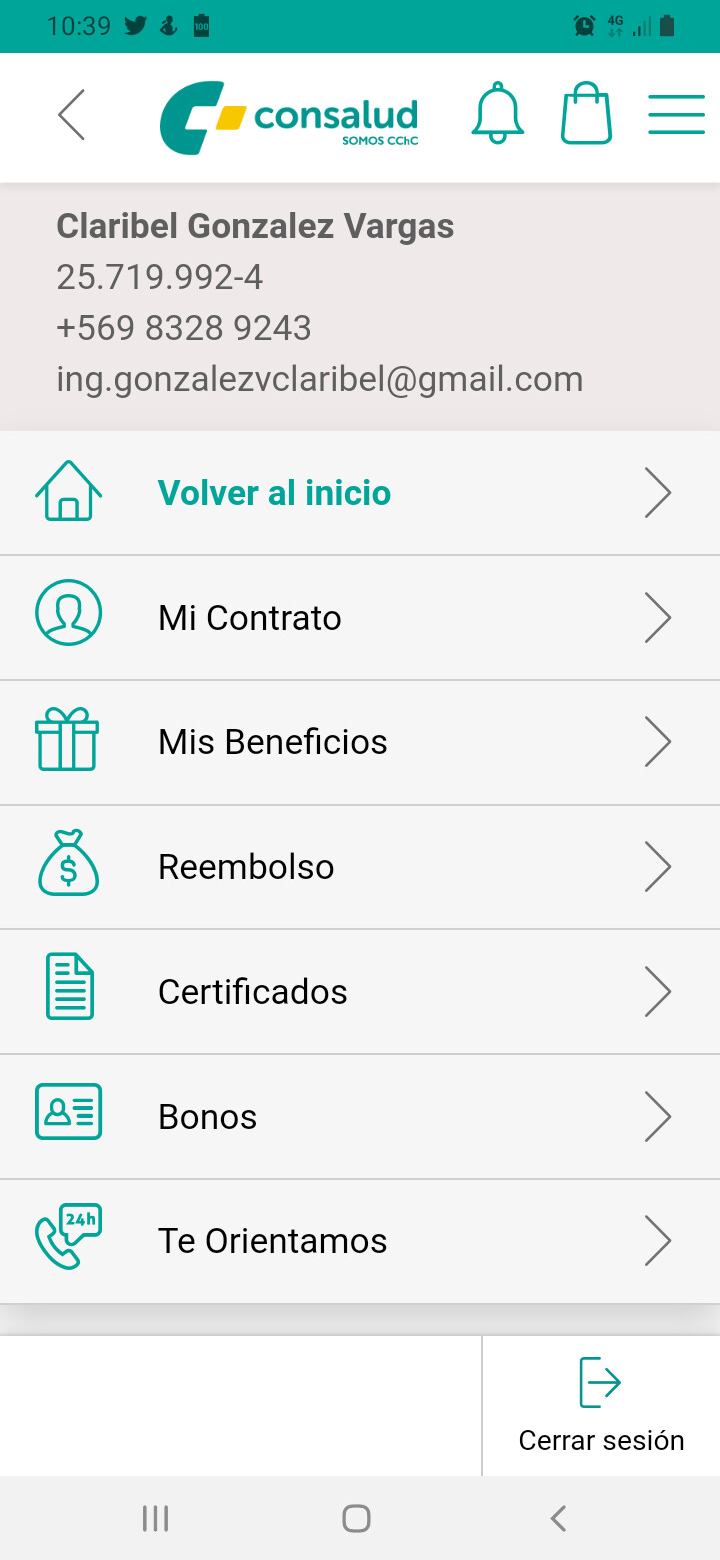
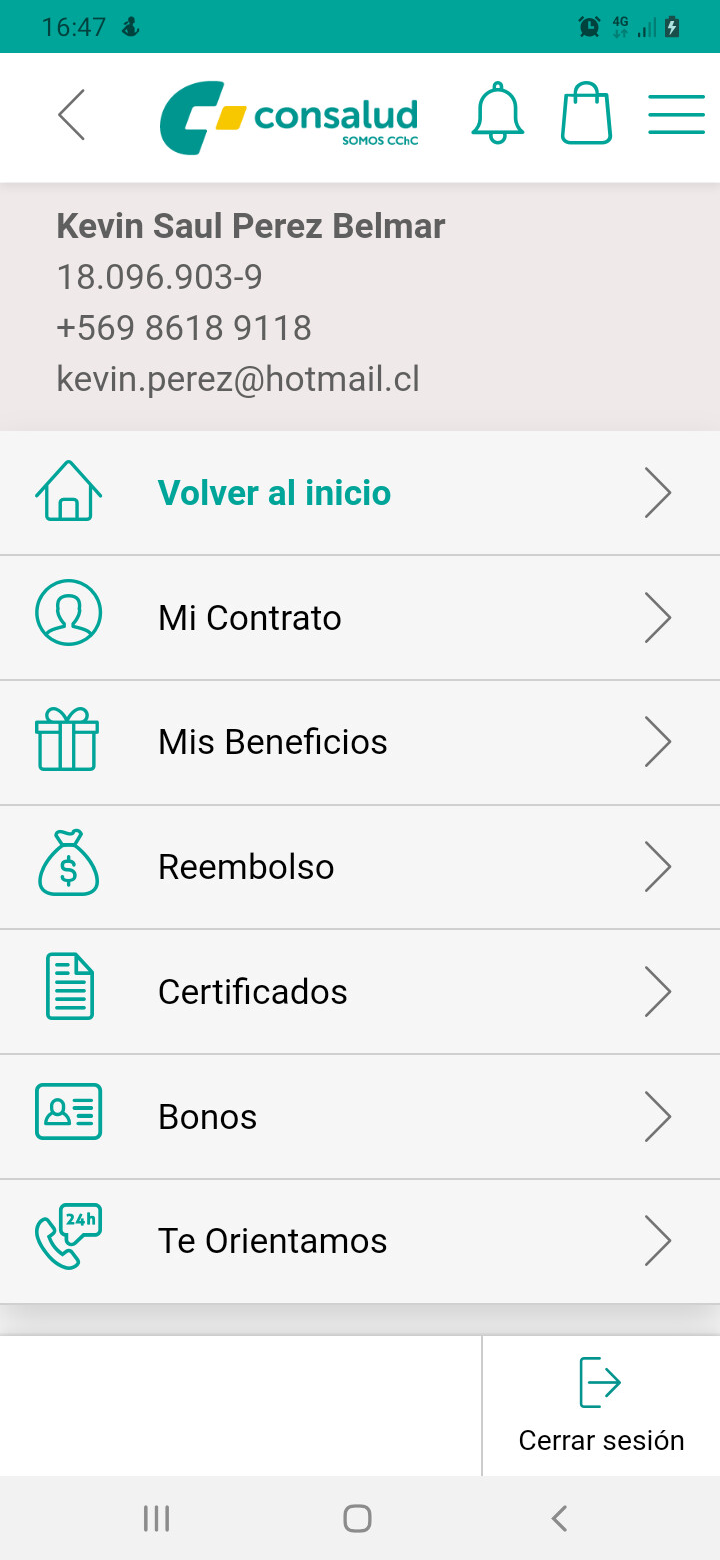
Menú
Declaracion de Clases Menu APPC

diff --git a/ExtentReports/Prueba_Base.html b/ExtentReports/Prueba_Base.html
@@ -53,7 +53,7 @@
 					<i class='mdi-hardware-desktop-windows'></i>
 				</li>
 				<li>
-					<span class='suite-started-time'>2019-08-27 15:45:45</span>
+					<span class='suite-started-time'>2019-08-28 16:47:22</span>
 				</li>
 				<li>
 					<span>v2.41.1</span>
@@ -83,25 +83,25 @@
 					<div class='col l2 m4 s12'>
 						<div class='card suite-total-time-current'> 
 							<span class='panel-name'>Tiempo total insumido (Corrida actual)</span> 
-							<span class='suite-total-time-current-value panel-lead'>0h 8m 54s+612ms</span> 
+							<span class='suite-total-time-current-value panel-lead'>0h 2m 39s+708ms</span> 
 						</div> 
 					</div>
 					<div class='col l2 m4 s12'>
 						<div class='card suite-total-time-overall'> 
 							<span class='panel-name'>Tiempo total insumido (En general)</span> 
-							<span class='suite-total-time-overall-value panel-lead'>0h 8m 54s+612ms</span> 
+							<span class='suite-total-time-overall-value panel-lead'>0h 2m 39s+708ms</span> 
 						</div> 
 					</div>
 					<div class='col l2 m4 s6 suite-start-time'>
 						<div class='card accent green-accent'> 
 							<span class='panel-name'>Comienzo</span> 
-							<span class='panel-lead suite-started-time'>2019-08-27 15:36:50</span> 
+							<span class='panel-lead suite-started-time'>2019-08-28 16:44:42</span> 
 						</div> 
 					</div>
 					<div class='col l2 m4 s6 suite-end-time'>
 						<div class='card accent pink-accent'> 
 							<span class='panel-name'>Fin</span> 
-							<span class='panel-lead suite-ended-time'>2019-08-27 15:45:45</span> 
+							<span class='panel-lead suite-ended-time'>2019-08-28 16:47:22</span> 
 						</div> 
 					</div>
 				</div>
@@ -241,7 +241,7 @@
 						<div class='card-panel no-padding-h no-padding-v no-margin-v'>
 							<div class='wrapper'>
 								<ul id='test-collection' class='test-collection'>
-										<li class='collection-item test displayed active pass ' extentid='dd13a92b-0992-49bd-bda6-43eb4fca441f'>
+										<li class='collection-item test displayed active pass ' extentid='7bca252b-dab6-4865-aea9-ca692ce178c6'>
 											<div class='test-head'>
 												<span class='test-name'>Reporte Ingreso APP Consalud </span>
 												<span class='test-status label right outline capitalize pass'>pass</span>
@@ -249,9 +249,9 @@
 											</div>
 											<div class='test-body'>
 												<div class='test-info'>
-													<span title='Comienzo del test' alt='Comienzo del test' class='test-started-time label green lighten-1 text-white'>2019-08-27 15:39:14</span>
-													<span title='Fin de test' alt='Fin de test' class='test-ended-time label red lighten-1 text-white'>2019-08-27 15:40:26</span>
-													<span title='Tiempo de ejecución' alt='Tiempo de ejecución' class='test-time-taken label blue-grey lighten-3 text-white'>0h 1m 12s+408ms</span>
+													<span title='Comienzo del test' alt='Comienzo del test' class='test-started-time label green lighten-1 text-white'>2019-08-28 16:44:48</span>
+													<span title='Fin de test' alt='Fin de test' class='test-ended-time label red lighten-1 text-white'>2019-08-28 16:46:03</span>
+													<span title='Tiempo de ejecución' alt='Tiempo de ejecución' class='test-time-taken label blue-grey lighten-3 text-white'>0h 1m 14s+373ms</span>
 												</div>
 												<div class='test-desc'>Login APP CONSALUD</div>
 												<div class='test-attributes'>
@@ -268,57 +268,57 @@
 														<tbody>
 																<tr>
 																	<td class='status info' title='info' alt='info'><i class='mdi-action-info-outline'></i></td>
-																	<td class='timestamp'>15:39:14</td>
+																	<td class='timestamp'>16:44:48</td>
 																	<td class='step-details'>Inicio Login en Consalud.-</td>
 																</tr>
 																<tr>
 																	<td class='status info' title='info' alt='info'><i class='mdi-action-info-outline'></i></td>
-																	<td class='timestamp'>15:39:26</td>
+																	<td class='timestamp'>16:45:01</td>
 																	<td class='step-details'>AUTOTRELLO: Ingreso APP<a href='.\Evidence\Prueba_Base\loginConsalud\Paso 1_APPC-01.png' data-featherlight='image'><img class='report-img' src='.\Evidence\Prueba_Base\loginConsalud\Paso 1_APPC-01.png' /></a></td>
 																</tr>
 																<tr>
 																	<td class='status info' title='info' alt='info'><i class='mdi-action-info-outline'></i></td>
-																	<td class='timestamp'>15:39:32</td>
+																	<td class='timestamp'>16:45:08</td>
 																	<td class='step-details'>AUTOTRELLO: Ingreso Usuario<a href='.\Evidence\Prueba_Base\loginConsalud\Paso 2_APPC-02.png' data-featherlight='image'><img class='report-img' src='.\Evidence\Prueba_Base\loginConsalud\Paso 2_APPC-02.png' /></a></td>
 																</tr>
 																<tr>
 																	<td class='status info' title='info' alt='info'><i class='mdi-action-info-outline'></i></td>
-																	<td class='timestamp'>15:39:37</td>
+																	<td class='timestamp'>16:45:14</td>
 																	<td class='step-details'>AUTOTRELLO: Ingresar Password<a href='.\Evidence\Prueba_Base\loginConsalud\Paso 3_APPC-03.png' data-featherlight='image'><img class='report-img' src='.\Evidence\Prueba_Base\loginConsalud\Paso 3_APPC-03.png' /></a></td>
 																</tr>
 																<tr>
 																	<td class='status info' title='info' alt='info'><i class='mdi-action-info-outline'></i></td>
-																	<td class='timestamp'>15:39:53</td>
+																	<td class='timestamp'>16:45:29</td>
 																	<td class='step-details'>AUTOTRELLO: Ingreso Correcto a APP Consalud<a href='.\Evidence\Prueba_Base\loginConsalud\Paso 4_APPC-04.png' data-featherlight='image'><img class='report-img' src='.\Evidence\Prueba_Base\loginConsalud\Paso 4_APPC-04.png' /></a></td>
 																</tr>
 																<tr>
 																	<td class='status info' title='info' alt='info'><i class='mdi-action-info-outline'></i></td>
-																	<td class='timestamp'>15:39:59</td>
+																	<td class='timestamp'>16:45:35</td>
 																	<td class='step-details'>AUTOTRELLO: Ingreso Pantalla Bienvenida_1<a href='.\Evidence\Prueba_Base\loginConsalud\Paso 5_APPC-05.png' data-featherlight='image'><img class='report-img' src='.\Evidence\Prueba_Base\loginConsalud\Paso 5_APPC-05.png' /></a></td>
 																</tr>
 																<tr>
 																	<td class='status info' title='info' alt='info'><i class='mdi-action-info-outline'></i></td>
-																	<td class='timestamp'>15:40:04</td>
+																	<td class='timestamp'>16:45:41</td>
 																	<td class='step-details'>AUTOTRELLO: Ingreso Pantalla Bienvenida_2<a href='.\Evidence\Prueba_Base\loginConsalud\Paso 6_APPC-06.png' data-featherlight='image'><img class='report-img' src='.\Evidence\Prueba_Base\loginConsalud\Paso 6_APPC-06.png' /></a></td>
 																</tr>
 																<tr>
 																	<td class='status info' title='info' alt='info'><i class='mdi-action-info-outline'></i></td>
-																	<td class='timestamp'>15:40:10</td>
+																	<td class='timestamp'>16:45:46</td>
 																	<td class='step-details'>AUTOTRELLO: Ingreso Pantalla Bienvenida_3<a href='.\Evidence\Prueba_Base\loginConsalud\Paso 7_APPC-07.png' data-featherlight='image'><img class='report-img' src='.\Evidence\Prueba_Base\loginConsalud\Paso 7_APPC-07.png' /></a></td>
 																</tr>
 																<tr>
 																	<td class='status info' title='info' alt='info'><i class='mdi-action-info-outline'></i></td>
-																	<td class='timestamp'>15:40:16</td>
+																	<td class='timestamp'>16:45:52</td>
 																	<td class='step-details'>AUTOTRELLO: Ingreso Pantalla Bienvenida_4<a href='.\Evidence\Prueba_Base\loginConsalud\Paso 8_APPC-08.png' data-featherlight='image'><img class='report-img' src='.\Evidence\Prueba_Base\loginConsalud\Paso 8_APPC-08.png' /></a></td>
 																</tr>
 																<tr>
 																	<td class='status info' title='info' alt='info'><i class='mdi-action-info-outline'></i></td>
-																	<td class='timestamp'>15:40:21</td>
+																	<td class='timestamp'>16:45:58</td>
 																	<td class='step-details'>AUTOTRELLO: Ingreso Pantalla Final<a href='.\Evidence\Prueba_Base\loginConsalud\Paso 9_APPC-09.png' data-featherlight='image'><img class='report-img' src='.\Evidence\Prueba_Base\loginConsalud\Paso 9_APPC-09.png' /></a></td>
 																</tr>
 																<tr>
 																	<td class='status pass' title='pass' alt='pass'><i class='mdi-action-check-circle'></i></td>
-																	<td class='timestamp'>15:40:26</td>
+																	<td class='timestamp'>16:46:03</td>
 																	<td class='step-details'>Test passed.-</td>
 																</tr>
 														</tbody>
@@ -328,19 +328,19 @@
 												</div>
 											</div>
 										</li>
-										<li class='collection-item test displayed active pass ' extentid='38545924-00db-435b-b9c5-4014e946d236'>
+										<li class='collection-item test displayed active pass ' extentid='1f788973-a0c8-4c9f-89f7-8914de117cfd'>
 											<div class='test-head'>
-												<span class='test-name'>Reporte Ingreso Menu Reembolso </span>
+												<span class='test-name'>Reporte Ingreso Menu Lateral Mi Contrato </span>
 												<span class='test-status label right outline capitalize pass'>pass</span>
 												<span class='category-assigned hide '></span>
 											</div>
 											<div class='test-body'>
 												<div class='test-info'>
-													<span title='Comienzo del test' alt='Comienzo del test' class='test-started-time label green lighten-1 text-white'>2019-08-27 15:41:29</span>
-													<span title='Fin de test' alt='Fin de test' class='test-ended-time label red lighten-1 text-white'>2019-08-27 15:41:44</span>
-													<span title='Tiempo de ejecución' alt='Tiempo de ejecución' class='test-time-taken label blue-grey lighten-3 text-white'>0h 0m 15s+472ms</span>
+													<span title='Comienzo del test' alt='Comienzo del test' class='test-started-time label green lighten-1 text-white'>2019-08-28 16:47:05</span>
+													<span title='Fin de test' alt='Fin de test' class='test-ended-time label red lighten-1 text-white'>2019-08-28 16:47:22</span>
+													<span title='Tiempo de ejecución' alt='Tiempo de ejecución' class='test-time-taken label blue-grey lighten-3 text-white'>0h 0m 16s+332ms</span>
 												</div>
-												<div class='test-desc'>Reembolso</div>
+												<div class='test-desc'>Mi Contrato</div>
 												<div class='test-attributes'>
 												</div>
 												<div class='test-steps'>
@@ -355,178 +355,22 @@
 														<tbody>
 																<tr>
 																	<td class='status info' title='info' alt='info'><i class='mdi-action-info-outline'></i></td>
-																	<td class='timestamp'>15:41:29</td>
-																	<td class='step-details'>Ingreso Home-Menu Lateral Reembolso.-</td>
+																	<td class='timestamp'>16:47:05</td>
+																	<td class='step-details'>Ingreso Menu Lateral Mi Contrato.-</td>
 																</tr>
 																<tr>
 																	<td class='status info' title='info' alt='info'><i class='mdi-action-info-outline'></i></td>
-																	<td class='timestamp'>15:41:34</td>
-																	<td class='step-details'>AUTOCONSALUD: Click para Ingresar a Menu Lateral<a href='.\Evidence\Prueba_Base\menuReembolso\Reem 01_APPC-01.png' data-featherlight='image'><img class='report-img' src='.\Evidence\Prueba_Base\menuReembolso\Reem 01_APPC-01.png' /></a></td>
+																	<td class='timestamp'>16:47:11</td>
+																	<td class='step-details'>AUTOCONSALUD: Click para Ingresar a Menu Lateral<a href='.\Evidence\Prueba_Base\menuMiContrato\Contra 01_APPC-01.png' data-featherlight='image'><img class='report-img' src='.\Evidence\Prueba_Base\menuMiContrato\Contra 01_APPC-01.png' /></a></td>
 																</tr>
 																<tr>
 																	<td class='status info' title='info' alt='info'><i class='mdi-action-info-outline'></i></td>
-																	<td class='timestamp'>15:41:42</td>
-																	<td class='step-details'>AUTOCONSALUD: Click para Ingresar a Menu Reembolso<a href='.\Evidence\Prueba_Base\menuReembolso\Reem 02_APPC-02.png' data-featherlight='image'><img class='report-img' src='.\Evidence\Prueba_Base\menuReembolso\Reem 02_APPC-02.png' /></a></td>
+																	<td class='timestamp'>16:47:19</td>
+																	<td class='step-details'>AUTOCONSALUD: Click para Ingresar a Menu Mi Contrato<a href='.\Evidence\Prueba_Base\menuMiContrato\Contra 02_APPC-02.png' data-featherlight='image'><img class='report-img' src='.\Evidence\Prueba_Base\menuMiContrato\Contra 02_APPC-02.png' /></a></td>
 																</tr>
 																<tr>
 																	<td class='status pass' title='pass' alt='pass'><i class='mdi-action-check-circle'></i></td>
-																	<td class='timestamp'>15:41:44</td>
-																	<td class='step-details'>Test passed.-</td>
-																</tr>
-														</tbody>
-													</table>
-													<ul class='collapsible node-list' data-collapsible='accordion'>
-													</ul>
-												</div>
-											</div>
-										</li>
-										<li class='collection-item test displayed active pass ' extentid='81695fa6-df4f-4bb3-978f-0d5b0f754d47'>
-											<div class='test-head'>
-												<span class='test-name'>Reporte Ingreso Menu Certificados </span>
-												<span class='test-status label right outline capitalize pass'>pass</span>
-												<span class='category-assigned hide '></span>
-											</div>
-											<div class='test-body'>
-												<div class='test-info'>
-													<span title='Comienzo del test' alt='Comienzo del test' class='test-started-time label green lighten-1 text-white'>2019-08-27 15:42:49</span>
-													<span title='Fin de test' alt='Fin de test' class='test-ended-time label red lighten-1 text-white'>2019-08-27 15:43:04</span>
-													<span title='Tiempo de ejecución' alt='Tiempo de ejecución' class='test-time-taken label blue-grey lighten-3 text-white'>0h 0m 15s+516ms</span>
-												</div>
-												<div class='test-desc'>Certificados</div>
-												<div class='test-attributes'>
-												</div>
-												<div class='test-steps'>
-													<table class='bordered table-results'>
-														<thead>
-															<tr>
-																<th>Resultado</th>
-																<th>Hora</th>
-																<th>Detalle</th>
-															</tr>
-														</thead>
-														<tbody>
-																<tr>
-																	<td class='status info' title='info' alt='info'><i class='mdi-action-info-outline'></i></td>
-																	<td class='timestamp'>15:42:49</td>
-																	<td class='step-details'>Ingreso Home-Menu Lateral Certificados.-</td>
-																</tr>
-																<tr>
-																	<td class='status info' title='info' alt='info'><i class='mdi-action-info-outline'></i></td>
-																	<td class='timestamp'>15:42:54</td>
-																	<td class='step-details'>AUTOCONSALUD: Click para Ingresar a Menu Lateral<a href='.\Evidence\Prueba_Base\menuCertificados\Certi 01_APPC-01.png' data-featherlight='image'><img class='report-img' src='.\Evidence\Prueba_Base\menuCertificados\Certi 01_APPC-01.png' /></a></td>
-																</tr>
-																<tr>
-																	<td class='status info' title='info' alt='info'><i class='mdi-action-info-outline'></i></td>
-																	<td class='timestamp'>15:43:02</td>
-																	<td class='step-details'>AUTOCONSALUD: Click para Ingresar a Menu Certificados<a href='.\Evidence\Prueba_Base\menuCertificados\Certi 02_APPC-02.png' data-featherlight='image'><img class='report-img' src='.\Evidence\Prueba_Base\menuCertificados\Certi 02_APPC-02.png' /></a></td>
-																</tr>
-																<tr>
-																	<td class='status pass' title='pass' alt='pass'><i class='mdi-action-check-circle'></i></td>
-																	<td class='timestamp'>15:43:04</td>
-																	<td class='step-details'>Test passed.-</td>
-																</tr>
-														</tbody>
-													</table>
-													<ul class='collapsible node-list' data-collapsible='accordion'>
-													</ul>
-												</div>
-											</div>
-										</li>
-										<li class='collection-item test displayed active pass ' extentid='ddd5eec0-0910-41b7-b894-4acab73a2275'>
-											<div class='test-head'>
-												<span class='test-name'>Reporte Ingreso Menu Bonos </span>
-												<span class='test-status label right outline capitalize pass'>pass</span>
-												<span class='category-assigned hide '></span>
-											</div>
-											<div class='test-body'>
-												<div class='test-info'>
-													<span title='Comienzo del test' alt='Comienzo del test' class='test-started-time label green lighten-1 text-white'>2019-08-27 15:44:09</span>
-													<span title='Fin de test' alt='Fin de test' class='test-ended-time label red lighten-1 text-white'>2019-08-27 15:44:25</span>
-													<span title='Tiempo de ejecución' alt='Tiempo de ejecución' class='test-time-taken label blue-grey lighten-3 text-white'>0h 0m 15s+628ms</span>
-												</div>
-												<div class='test-desc'>Bonos</div>
-												<div class='test-attributes'>
-												</div>
-												<div class='test-steps'>
-													<table class='bordered table-results'>
-														<thead>
-															<tr>
-																<th>Resultado</th>
-																<th>Hora</th>
-																<th>Detalle</th>
-															</tr>
-														</thead>
-														<tbody>
-																<tr>
-																	<td class='status info' title='info' alt='info'><i class='mdi-action-info-outline'></i></td>
-																	<td class='timestamp'>15:44:09</td>
-																	<td class='step-details'>Ingreso Home-Menu Lateral Bonos.-</td>
-																</tr>
-																<tr>
-																	<td class='status info' title='info' alt='info'><i class='mdi-action-info-outline'></i></td>
-																	<td class='timestamp'>15:44:15</td>
-																	<td class='step-details'>AUTOCONSALUD: Click para Ingresar a Menu Lateral<a href='.\Evidence\Prueba_Base\menuBonos\Bono 01_APPC-01.png' data-featherlight='image'><img class='report-img' src='.\Evidence\Prueba_Base\menuBonos\Bono 01_APPC-01.png' /></a></td>
-																</tr>
-																<tr>
-																	<td class='status info' title='info' alt='info'><i class='mdi-action-info-outline'></i></td>
-																	<td class='timestamp'>15:44:23</td>
-																	<td class='step-details'>AUTOCONSALUD: Click para Ingresar a Menu Bonos<a href='.\Evidence\Prueba_Base\menuBonos\Bono 02_APPC-02.png' data-featherlight='image'><img class='report-img' src='.\Evidence\Prueba_Base\menuBonos\Bono 02_APPC-02.png' /></a></td>
-																</tr>
-																<tr>
-																	<td class='status pass' title='pass' alt='pass'><i class='mdi-action-check-circle'></i></td>
-																	<td class='timestamp'>15:44:25</td>
-																	<td class='step-details'>Test passed.-</td>
-																</tr>
-														</tbody>
-													</table>
-													<ul class='collapsible node-list' data-collapsible='accordion'>
-													</ul>
-												</div>
-											</div>
-										</li>
-										<li class='collection-item test displayed active pass ' extentid='a323b33b-2aeb-43fc-96a1-0685e8453335'>
-											<div class='test-head'>
-												<span class='test-name'>Reporte Ingreso Menu Te Orientamos </span>
-												<span class='test-status label right outline capitalize pass'>pass</span>
-												<span class='category-assigned hide '></span>
-											</div>
-											<div class='test-body'>
-												<div class='test-info'>
-													<span title='Comienzo del test' alt='Comienzo del test' class='test-started-time label green lighten-1 text-white'>2019-08-27 15:45:29</span>
-													<span title='Fin de test' alt='Fin de test' class='test-ended-time label red lighten-1 text-white'>2019-08-27 15:45:45</span>
-													<span title='Tiempo de ejecución' alt='Tiempo de ejecución' class='test-time-taken label blue-grey lighten-3 text-white'>0h 0m 15s+479ms</span>
-												</div>
-												<div class='test-desc'>Te Orientamos</div>
-												<div class='test-attributes'>
-												</div>
-												<div class='test-steps'>
-													<table class='bordered table-results'>
-														<thead>
-															<tr>
-																<th>Resultado</th>
-																<th>Hora</th>
-																<th>Detalle</th>
-															</tr>
-														</thead>
-														<tbody>
-																<tr>
-																	<td class='status info' title='info' alt='info'><i class='mdi-action-info-outline'></i></td>
-																	<td class='timestamp'>15:45:29</td>
-																	<td class='step-details'>Ingreso Home-Menu Lateral Te Orientamos.-</td>
-																</tr>
-																<tr>
-																	<td class='status info' title='info' alt='info'><i class='mdi-action-info-outline'></i></td>
-																	<td class='timestamp'>15:45:35</td>
-																	<td class='step-details'>AUTOCONSALUD: Click para Ingresar a Menu Lateral<a href='.\Evidence\Prueba_Base\menuTeOrientamos\Orientar 01_APPC-01.png' data-featherlight='image'><img class='report-img' src='.\Evidence\Prueba_Base\menuTeOrientamos\Orientar 01_APPC-01.png' /></a></td>
-																</tr>
-																<tr>
-																	<td class='status info' title='info' alt='info'><i class='mdi-action-info-outline'></i></td>
-																	<td class='timestamp'>15:45:43</td>
-																	<td class='step-details'>AUTOCONSALUD: Click para Ingresar a Menu Te Orientamos<a href='.\Evidence\Prueba_Base\menuTeOrientamos\Orientar 02_APPC-02.png' data-featherlight='image'><img class='report-img' src='.\Evidence\Prueba_Base\menuTeOrientamos\Orientar 02_APPC-02.png' /></a></td>
-																</tr>
-																<tr>
-																	<td class='status pass' title='pass' alt='pass'><i class='mdi-action-check-circle'></i></td>
-																	<td class='timestamp'>15:45:45</td>
+																	<td class='timestamp'>16:47:22</td>
 																	<td class='step-details'>Test passed.-</td>
 																</tr>
 														</tbody>

diff --git a/src/test/java/cl/consalud/qc/mobile/android/tests/ConsaludTest.java b/src/test/java/cl/consalud/qc/mobile/android/tests/ConsaludTest.java
@@ -15,7 +15,6 @@ import org.testng.annotations.Test;
 import com.relevantcodes.extentreports.ExtentReports;
 import com.relevantcodes.extentreports.ExtentTest;
 import com.relevantcodes.extentreports.LogStatus;
-
 import cl.consalud.qc.mobile.android.pages.Home;
 import cl.consalud.qc.mobile.android.pages.LoginConsalud;
 import cl.consalud.qc.mobile.android.pages.MenuConsalud;
@@ -23,6 +22,8 @@ import cl.consalud.qc.mobile.android.vo.ConsaludVO;
 import io.appium.java_client.android.AndroidDriver;
 import io.appium.java_client.android.AndroidElement;
 import io.appium.java_client.remote.MobileCapabilityType;
+
+
 
 
 
